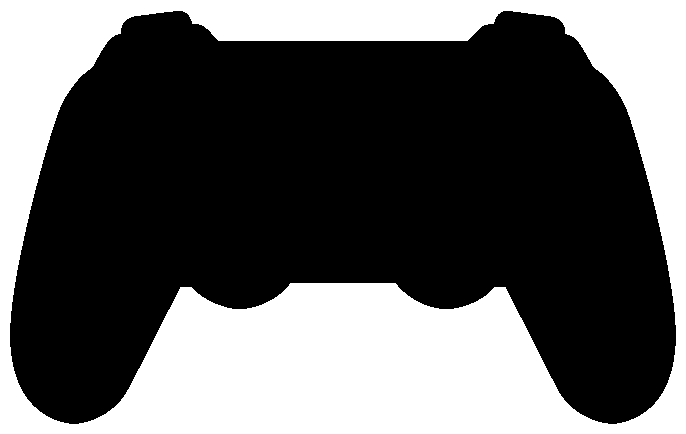
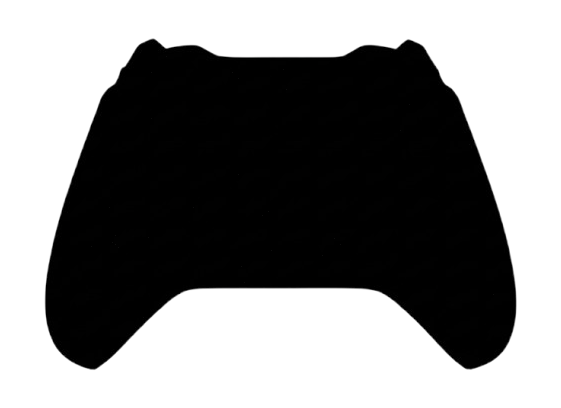
change auth login background/layout + update gamepad + few animation corrections + style/layout fixes

Changed region(s): [[0.0, 0.0, 1.0, 1.0], [0.3636, 0.6471, 0.6364, 0.7059]]

diff --git a/src/components/navbar.tsx b/src/components/navbar.tsx
@@ -18,7 +18,8 @@ interface NavbarProps {
     setContract?: (show: boolean) => void,
     paper?: boolean,
     volume: number,
-    setVolume: (value: (((prevState: number) => number) | number)) => void
+    setVolume: (value: (((prevState: number) => number) | number)) => void,
+    setQuit?: (value: (((prevState: boolean) => boolean) | boolean)) => void
 }
 
 const Navbar = ({
@@ -35,7 +36,8 @@ const Navbar = ({
                     setContract,
                     paper,
                     volume,
-                    setVolume
+                    setVolume,
+                    setQuit
                 }: NavbarProps) => {
     const [loading, setLoading] = useState<boolean>(false)
 
@@ -79,7 +81,7 @@ const Navbar = ({
         <>
             <LoadingBanner show={loading}/>
             <div className={"absolute top-10 right-10 flex items-center justify-center flex-row gap-5 z-[100]"}>
-                <div className={"flex justify-center items-center group relative"}>
+                <div className={`${page === "Auth" && "right-5"} flex justify-center items-center group relative`}>
                     <button
                         className={`${getPageStyle(page)} border-2 p-2 cursor-alias transition-all duration-200 ease-in-out transform hover:scale-110 active:scale-120`}
                         style={page === "LoveInHeart" ? {
@@ -112,7 +114,7 @@ const Navbar = ({
                             bottom: -35
                         } : {}}
                     >
-                        <input className={"accent-pink-600"} type={"range"} value={volume} min={0} max={100}
+                        <input className={"accent-white"} type={"range"} value={volume} min={0} max={100}
                                onChange={(e) => {
                                    setVolume(parseInt(e.target.value))
                                }}/>
@@ -120,7 +122,12 @@ const Navbar = ({
                 </div>
                 {page !== "Auth" && (
                     <button onClick={() => {
-                        setLoading(true)
+                        if(page !== "Tutorial"){
+                            setLoading(true)
+                        }
+                        else{
+                            setQuit?.(true)
+                        }
                         {
                             page !== "Selection" ? (
                                 router?.push("/")

diff --git a/src/app/auth/authClient.tsx b/src/app/auth/authClient.tsx
@@ -147,10 +147,10 @@ export default function AuthClient() {
                                 </div>
                             </>
                         ) : (
-                            <div className={"absolute w-screen h-screen flex content-center items-center justify-center mask-center z-2"}>
+                            <div className={"absolute w-screen h-screen flex content-center items-center justify-center mask-center z-2 perspective-dramatic"}>
                                 <div
-                                    className="relative flex items-center justify-center flex-col h-80 w-130 mb-44">
-                                    <div className={"absolute top-4 left-0 flex items-center justify-center flex-row gap-2"}>
+                                    className="relative flex items-center justify-center flex-col h-80 w-160 mb-22 shadow-lg shadow-gray-500 -rotate-x-[.4deg] bg-[url(/images/paper_texture.png)]">
+                                    <div className={"absolute top-4 left-4 flex items-center justify-center flex-row gap-2"}>
                                         <button
                                             className={`border-black border-2 rounded-sm w-[105px] gap-2 opacity-70 p-2 flex-row cursor-pointer hover:opacity-100 transition-all duration-200 ease-in-out transform active:scale-110 flex items-center justify-center ${yesteryear.className}`}
                                             onClick={() => changeMode("Main")}>
@@ -166,6 +166,7 @@ export default function AuthClient() {
                                             <Github/>
                                             <p>Github</p>
                                         </button>
+                                        <div className={"flex h-[2px] w-60 rounded-[2] bg-black/70"}/>
                                         <button
                                             className={"border-black border-2 rounded-sm w-[150px] opacity-70 p-2 flex justify-between flex-row cursor-pointer hover:opacity-100 transition-all duration-200 ease-in-out transform active:scale-110 gap-2"}
                                             onClick={() => logIn("discord")}>

diff --git a/src/app/tutorial/TutorialClient.tsx b/src/app/tutorial/TutorialClient.tsx
@@ -6,12 +6,14 @@ import Image from "next/image";
 import TutorialItem from "@/app/tutorial/TutorialItem";
 import Navbar from "@/components/navbar";
 import {useRouter} from "next/navigation";
+import LoadingBanner from "@/components/loadingBanner";
 
 const Tutorial = () => {
     const [isPlaying, setIsPlaying] = useState(true)
     const [muted, setMuted] = useState(false)
     const [volume, setVolume] = useState<number>(100)
-
+    const [loading, setLoading] = useState<boolean>(true)
+    const [quit, setQuit] = useState<boolean>(false)
     const [active, setActive] = useState<string | null>(null)
 
     const router = useRouter()
@@ -28,6 +30,10 @@ const Tutorial = () => {
         return () => clearTimeout(timer)
     }, [])
 
+    useEffect(() => {
+        setLoading(false)
+    }, [])
+
     const tutorialItems = [
         { label: "Authentication", left: "left-12", width: "w-[4vw]", rotate: "rotate-12" },
         { label: "Club selection", left: "left-40.5", width: "w-[5.5vw]" },
@@ -42,9 +48,11 @@ const Tutorial = () => {
 
     return(
         <>
+            <div className={`z-[1000] fixed h-screen w-screen bg-black duration-500 ease-in-out pointer-events-none ${quit ? "opacity-100" : "opacity-0"}`}/>
+            <LoadingBanner show={loading}/>
             <div className={"flex h-screen w-screen justify-center items-center text-[30px]"}>
                 <Image src={"/images/books.png"} alt={"Bookshelf"} fill={true} className="z-1"/>
-                <Navbar router={router} isPlaying={isPlaying} setIsPlaying={setIsPlaying} page={"Tutorial"} volume={volume} setVolume={setVolume}/>
+                <Navbar router={router} isPlaying={isPlaying} setIsPlaying={setIsPlaying} page={"Tutorial"} volume={volume} setVolume={setVolume} setQuit={setQuit}/>
                 <div className={"relative grid grid-cols-9 items-center w-300 gap-4 p-2 whitespace-nowrap z-50 mix-blend-mode-burn mt-3"}>
                     <ReactPlayer
                         src={"https://youtube.com/embed/OR9Xls1S0s4?autoplay=1"}

diff --git a/src/components/introBanner.tsx b/src/components/introBanner.tsx
@@ -12,7 +12,7 @@ const IntroBanner = ({bannerVisible}: Props) => {
             <div
                 className={`z-[999] flex h-screen w-screen items-center justify-center absolute transition duration-1000 transform ease-in-out ${bannerVisible ? "opacity-100" : "opacity-0"}`}>
                 <div className={"flex flex-col h-175 justify-between items-center"}>
-                    <Image src={"/images/gamepad.png"} alt={"Gamepad"} height={424} width={676} className={"flex"}/>
+                    <Image src={"/images/gamepad.png"} alt={"Gamepad"} height={424} width={700} className={"flex"}/>
                     <h1 className={`${yesteryear.className} text-[80px] text-white`}>Real hosts use a gamepad</h1>
                 </div>
             </div>
